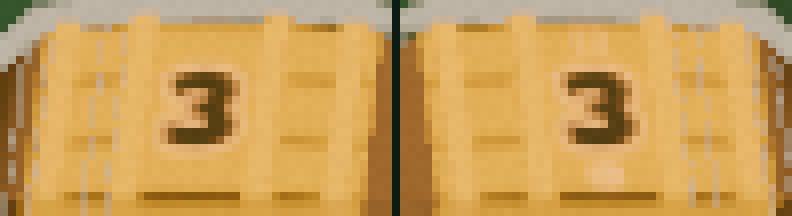
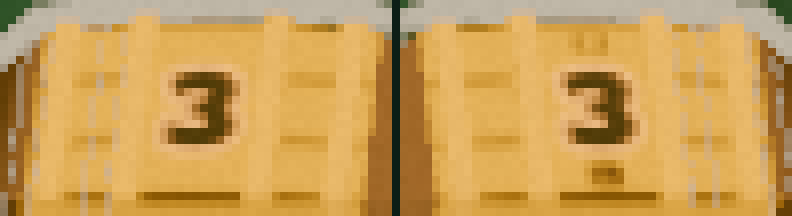
Paint the Powder Keg Twin glyph dark brass with no glow.
The keg sets twin_strength and twin_halo_strength to 0 and twin_unlit to #3A2E24 after bind. Shared Twin defaults stay 1.6 and #403440.

Changed region(s): [[0.697, 0.1111, 0.7879, 0.2778], [0.7273, 0.7222, 0.7879, 0.8889]]

diff --git a/docs/ARCHITECTURE.md b/docs/ARCHITECTURE.md
@@ -310,7 +310,7 @@ that you add gets a row in [AI_CONTENT_LOG.md](AI_CONTENT_LOG.md).
 - **Powder Keg readability:** the barrel (die id `powder_keg`, body shape `keg`) is read from the stave pointing up (values 1, 1, 2, 2, 3, 3). That stave faces the sky, so the angled camera sees a neighbouring stave (a different number) more face-on. Two readouts, no new signals, and no extra glow (emission stays the normal scoring glow, <= 0.3):
   - `scripts/table3d/keg_value_tag.gd` (`KegValueTag`, child `KegValueTag` of the die, a `D4ValueTag`) is an unlit camera-facing label of `DieVisual.shown_value()`. `PolyBody.dress` attaches it.
   - `scripts/table3d/keg_stave_dim.gd` (`KegStaveDim`, child `KegStaveDim`) listens to the die's existing `settled` signal and to the table's existing `throw_started`. On settle it sets instance uniforms `lit_stave` (the face value 1, 2 or 3) and `stave_dim` (0..1, about 0.15 s, instant under reduced motion or Instant speed) on that die's body mesh. `shaders/3d/keg_stave_dim.gdshaderinc`, included by both `toon_noir.gdshader` and `toon_noir_twin.gdshader`, fades numeral ink in the other atlas cells toward the stave wood (value v lives in cell v−1; about 30% contrast remains). Lids and hoops are not numeral cells, so they stay. While the keg is rolling, and on every other die, both uniforms stay 0 and every numeral is full. `KegStaveDim` also sets instance uniform `keg_body` to 1 on that mesh only, and sets the body's `spec_strength` to 0.05. Specular and rim then stay off every mustard stave cell, including the gutter cells between the numerals. Only the lids (atlas cell 23) and the hoops (cell 24) keep a shine, and that shine is a soft lobe (`smoothstep(0.40, 0.82, N·H)`) instead of the bone die's hard step at `spec_size` 0.97. Other dice are unchanged. No emission is added. A new throw clears them at once. The separate rare "Powder Barrel" d6 (`barrel`) is not this die. Tests: `tests/test_keg_readable.gd`, `tests/test_keg_stave_dim.gd`.
-- **Powder Keg Twin Face:** `art/models/dice/materials/powder_keg_body.tres` uses `shaders/3d/toon_noir_twin.gdshader` with `twin_mask` = `art/fx/twin_face/powder_keg_twin_mask.png` (UV1, 1024, marks in cell 2 / the 3s only). `DieArtMaterial.apply` puts that material on the die only when a face is carved Twin, and adds a `TwinFaceGlow` child that listens to the die's existing `settled` / `impact` signals. A keg with no Twin carve stays on `toon_noir` with the same body colours. No new signal. Glow strength stays the existing Twin Face default; the glyph inlay is cream `#E8DCC0` (mask R only, not the whole stave). `KegStaveDim` still sets `lit_stave`, `stave_dim`, `keg_body` and `spec_strength` 0.05 on that twin material. `emission_energy` stays the scoring glow (<= 0.3). Test: `tests/test_keg_twin_mask.gd`.
+- **Powder Keg Twin Face:** `art/models/dice/materials/powder_keg_body.tres` uses `shaders/3d/toon_noir_twin.gdshader` with `twin_mask` = `art/fx/twin_face/powder_keg_twin_mask.png` (UV1, 1024, marks in cell 2 / the 3s only). `DieArtMaterial.apply` puts that material on the die only when a face is carved Twin, and adds a `TwinFaceGlow` child that listens to the die's existing `settled` / `impact` signals. A keg with no Twin carve stays on `toon_noir` with the same body colours. No new signal. On this keg only, `twin_strength` and `twin_halo_strength` are 0 and `twin_unlit` is dark brass `#3A2E24` (mask R only, not the whole stave). Shared TwinFaceGlow defaults stay 1.6 and `#403440`. `KegStaveDim` still sets `lit_stave`, `stave_dim`, `keg_body` and `spec_strength` 0.05 on that twin material. `emission_energy` stays the scoring glow (<= 0.3). Test: `tests/test_keg_twin_mask.gd`.
 - **Nerve panel dodge (#198):** `NerveUi._place_panels` puts the "Nerve ready" pip and the rescue prompt at their home spot, then through `RulesPlaqueDodge.place(rect, blockers, view)` (left, below, above, right; else least overlap). The blockers (`NerveUi._blockers`) are the landed dice (`RulesPlaqueDodge.die_rect`) plus `HudTextRects.collect`, minus the Nerve UI's own labels and the bounty cards it hangs under. Target HUD v2.1: the goal plate (grown 24 px) is a blocker too, Nerve re-places in the same frame the plate or SEALS chip moves (`item_rect_changed`), and when all 4 spots overlap the dodge sweeps for the first clear spot. Test: `tests/test_target_hud.gd`. Test: `tests/test_nerve_die_clear.gd` (PC 16:9 and phone 844x390, d4 parked under the pip).
 
 <!-- SECTION: VFX Dev — FX (owner text; replace freely) -->

diff --git a/scripts/fx/README.md b/scripts/fx/README.md
@@ -125,7 +125,7 @@ Lit core: albedo lerps to near-black (`0.02`) by `R * gate` so the lamp does not
 
 1. `art/fx/twin_face/powder_keg_twin_mask.png` is the shipped UV1 mask (mark in the **3's cell**, index 2). The stand-in stays for the older glow tests. Import is non-colour / lossless / mipmaps.
 2. `powder_keg_body.tres` points at `res://shaders/3d/toon_noir_twin.gdshader` with `twin_mask` set. Ink outline `next_pass` and the face atlas stay. Ink stays in albedo, not in the mask.
-3. `DieArtMaterial` uses that material only when the die has a Twin carve. A keg with no Twin carve keeps `toon_noir` and the same body colours. Glow / unlit stay the defaults in the table above (`TwinFaceGlow.bind_material`). `emission_energy` is not raised.
+3. `DieArtMaterial` uses that material only when the die has a Twin carve. A keg with no Twin carve keeps `toon_noir` and the same body colours. After `bind_material`, the keg sets `twin_strength` and `twin_halo_strength` to 0 and `twin_unlit` to `#3A2E24`. Other Twin dice keep the defaults in the table above. `emission_energy` is not raised.
 4. Runtime: `TwinFaceGlow` → `bind_material(body_mat)` → `bind_die(die_visual)` (settled lights it, impact clears it). Stave normals outward.
 
 ### Tests / capture
